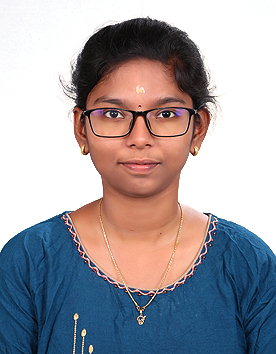
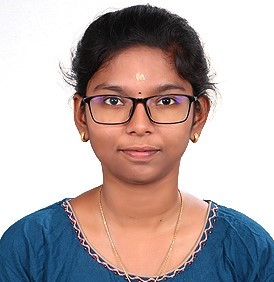
Add files via upload

diff --git a/resume.html b/resume.html
@@ -1,0 +1,178 @@
+<!DOCTYPE html>
+<html lang="en">
+<head>
+    <meta charset="UTF-8">
+    <meta name="viewport" content="width=device-width, initial-scale=1.0">
+    <title>RAKSHANA SIVAGNANAM - Resume</title>
+    <style>
+        body {
+            font-family: 'Arial', sans-serif;
+            margin: 0;
+            padding: 0;
+            background-color: #f4f4f4;
+        }
+        .container {
+            width: 80%;
+            max-width: 900px;
+            margin: 20px auto;
+            background-color: white;
+            box-shadow: 0 0 10px rgba(0, 0, 0, 0.1);
+            display: flex;
+        }
+        .left {
+            width: 35%;
+            background-color: #f2f2f2;
+            padding: 20px;
+            text-align: center;
+            border-right: 2px solid #ddd;
+        }
+        .left img {
+            border-radius: 50%;
+            width: 150px;
+            height: 150px;
+            object-fit: cover;
+            margin-bottom: 20px;
+        }
+        .left h2 {
+            color: #e2b007;
+            font-size: 24px;
+            margin: 0;
+        }
+        .left h1 {
+            font-size: 26px;
+            color: #333;
+            margin: 5px 0;
+        }
+        .left p {
+            color: #888;
+            margin-bottom: 20px;
+            font-size: 18px;
+        }
+        .section-title {
+            font-weight: bold;
+            font-size: 18px;
+            margin: 20px 0;
+            text-transform: uppercase;
+            border-bottom: 2px solid #e2b007;
+            display: inline-block;
+            padding-bottom: 5px;
+        }
+        .left .info, .left .skills {
+            text-align: left;
+            margin-bottom: 20px;
+        }
+        .left .info p, .left .skills p {
+            margin: 10px 0;
+            font-size: 14px;
+        }
+        .left .info span, .left .skills span {
+            font-weight: bold;
+            color: #333;
+        }
+        .right {
+            width: 65%;
+            padding: 20px;
+        }
+        .right h3 {
+            font-size: 16px;
+            font-weight: bold;
+            color: #333;
+            margin-bottom: 5px;
+        }
+        .right h4 {
+            color: #e2b007;
+            margin-top: 5px;
+            margin-bottom: 15px;
+        }
+        .right p {
+            color: #555;
+            margin-bottom: 20px;
+        }
+        .right .date {
+            font-style: italic;
+            color: #999;
+            float: right;
+        }
+        ul {
+            list-style: none;
+            padding: 0;
+        }
+        ul li {
+            margin-bottom: 10px;
+        }
+    </style>
+</head>
+<body>
+
+    <div class="container">
+        <!-- Left Side -->
+        <div class="left">
+            <img src="Rakshana A S - photo.jpg" alt="Profile Picture">
+            <h1>RAKSHANA</h1>
+            <h2>SIVAGNANAM</h2>
+            <p>Creative Designer</p>
+            
+            <div class="info">
+                <h3 class="section-title">Contacts</h3>
+                <p><span>Phone:</span> +91 8072128325</p>
+                <p><span>Email:</span> rakshanasivagnanam02@gmail.com</p>
+                <p><span>Address:</span> 63,Subramaniyapuram,Mohanur,Namakkal District</p>
+            </div>
+
+            <div class="skills">
+                <h3 class="section-title">Skills</h3>
+                <p><span>HTML</span></p>
+                <p><span>CSS</span></p>
+                <p><span>JavaScript</span></p>
+               
+                <p><span>GCP</span></p>
+                
+            </div>
+        </div>
+
+        <!-- Right Side -->
+        <div class="right">
+            <div class="profile">
+                <h3 class="section-title">Profile</h3>
+                <p>Aspiring front-end developer with a background in Electronics and Communication Engineering. Enthusiastic about developing user-friendly web solutions.</p>
+            </div>
+
+            <div class="work-experience">
+                <h3 class="section-title">Education</h3>
+                <ul>
+                    <li>
+                        <h3> B.E - ECE <span class="date">2020 - 2024</span></h3>
+                        <h4>M.Kumarasamy College of Engineering</h4>
+                        <p> Graduated Bachelor of Engineering in Electronics and Communication Engineering at M.Kumarasamy College of Engineering with a CGPA of 75%.</p>
+                    </li>
+                    <li>
+                        <h3> HSC <span class="date">2019 - 2020</span></h3>
+                        <h4>Little Angels Matric and Higher Secondary School</h4>
+                        <p> Completed Higher Secondary School Certificate from Little Angels Matric and Higher Secondary School with 65%. </p>
+                    </li>
+                    <li>
+                        <h3>SSLC <span class="date">2017 - 2018</span></h3>
+                        <h4>Rasi Matric Higher Secondary School </h4>
+                        <p>Attained Secondary School Leaving Certificate from Rasi Matric Higher Secondary School with 86%. </p>
+                    </li>
+                </ul>
+            </div>
+
+            <div class="education">
+                <h3 class="section-title">Achievements</h3>
+                <ul>
+                    <li>
+                        <h3>Accomplished N4 level in Japanese Language Proficiency Test  <span class="date">2023</span></h3>
+                       
+                    </li>
+                    <li>
+                        <h3>Achieved Google Associate Cloud Engineer certification <span class="date">2023</span></h3>
+                       
+                    </li>
+                </ul>
+            </div>
+        </div>
+    </div>
+
+</body>
+</html>
